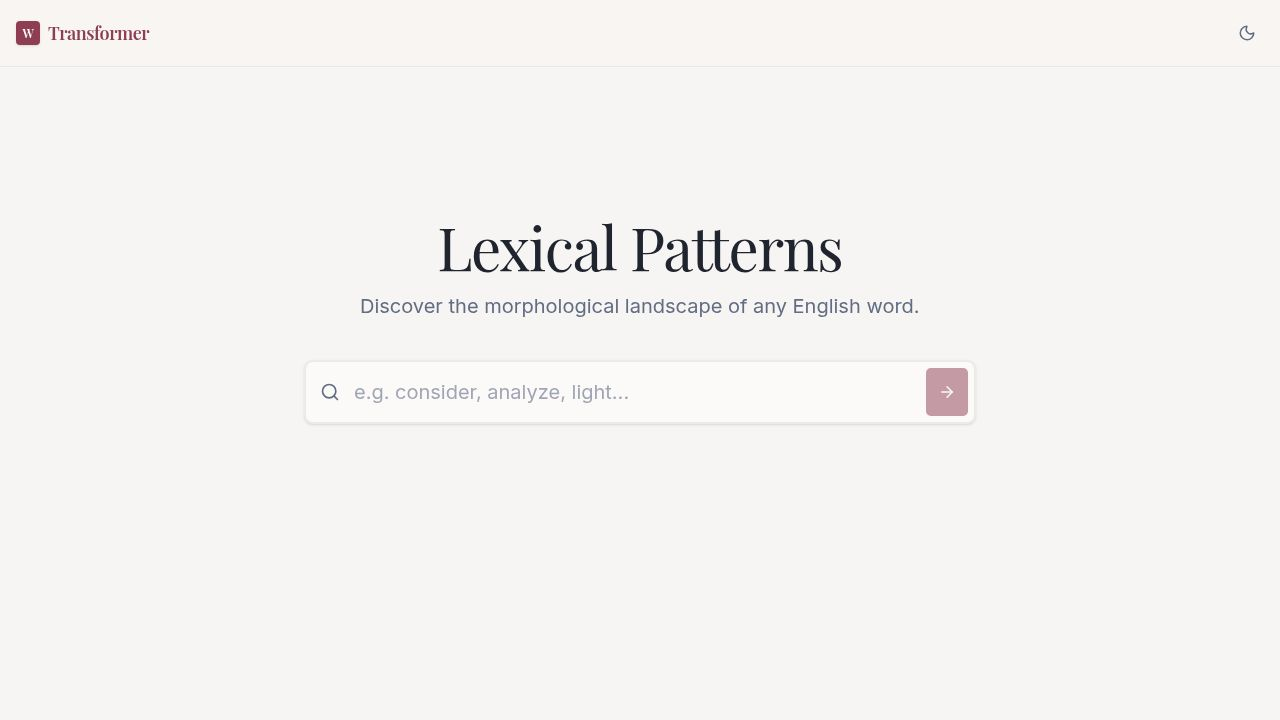
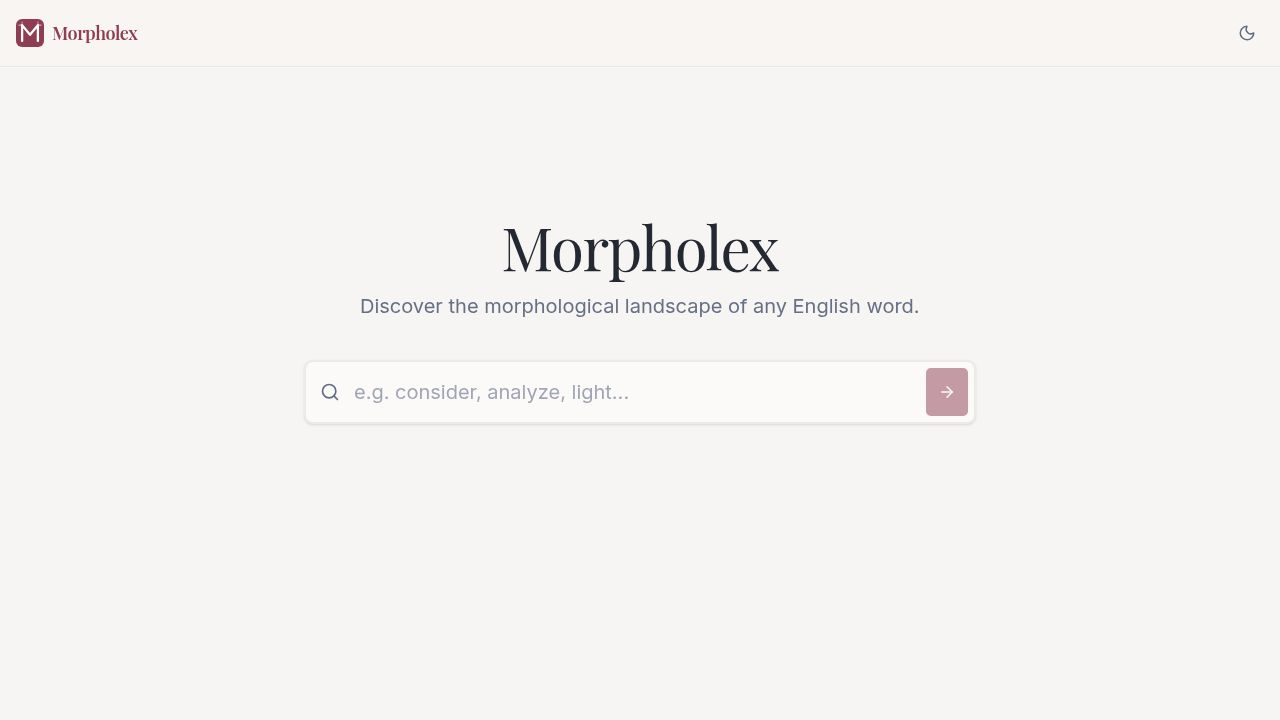
Add the "Morpholex" brand name to the website header
Update header and favicon to display the "Morpholex" branding, using an orange box with an "M" followed by the text "orpholex".

Replit-Commit-Author: Agent
Replit-Commit-Session-Id: 70bc4bf7-92f2-4cde-a8c0-8f4cb13ef2dc
Replit-Commit-Checkpoint-Type: full_checkpoint
Replit-Commit-Event-Id: 4e170fd7-45d5-4874-a22c-87f2f9bf563e
Replit-Commit-Screenshot-Url: https://storage.googleapis.com/screenshot-production-us-central1/097fa98e-60a7-41d6-a69a-e6a8918b9f91/70bc4bf7-92f2-4cde-a8c0-8f4cb13ef2dc/ZGBzcrA
Replit-Helium-Checkpoint-Created: true

Changed region(s): [[0.3438, 0.3056, 0.6562, 0.3972], [0.0, 0.0306, 0.125, 0.0611]]

diff --git a/artifacts/word-transformer/src/pages/home.tsx b/artifacts/word-transformer/src/pages/home.tsx
@@ -2,7 +2,6 @@ import { useState, useEffect, useRef } from "react";
 import { Search, Loader2, Moon, Sun, History, ArrowRight } from "lucide-react";
 import { useTransformWord } from "@workspace/api-client-react";
 import { useTheme } from "@/components/theme-provider";
-import { MorpholexIcon } from "@/components/morpholex-logo";
 
 export default function Home() {
   const [searchInput, setSearchInput] = useState("");
@@ -59,9 +58,9 @@ export default function Home() {
     <div className="min-h-[100dvh] bg-background text-foreground transition-colors duration-300 font-sans selection:bg-primary/20 selection:text-primary">
       {/* Header / Nav */}
       <header className="fixed top-0 w-full p-4 flex justify-between items-center z-10 bg-background/80 backdrop-blur-md border-b border-border/50">
-        <div className="font-serif font-semibold text-lg tracking-tight text-primary flex items-center gap-2">
-          <MorpholexIcon size={28} />
-          Morpholex
+        <div className="font-serif font-semibold text-lg tracking-tight text-primary flex items-center gap-1.5">
+          <span className="w-6 h-6 rounded bg-[#FF3C00] text-white flex items-center justify-center text-xs shadow-sm font-serif font-semibold">M</span>
+          <span>orpholex</span>
         </div>
         <button
           onClick={toggleTheme}
